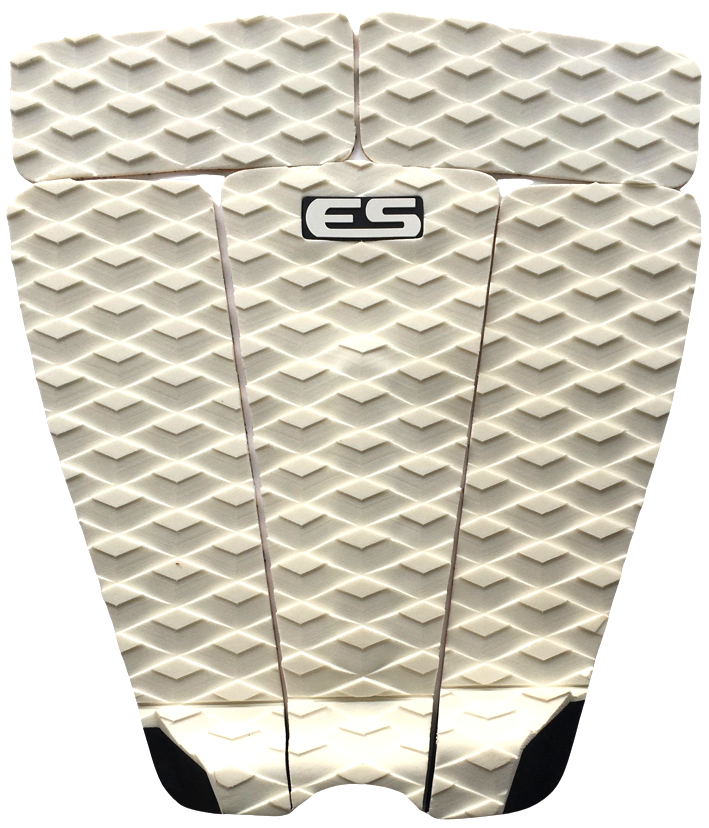
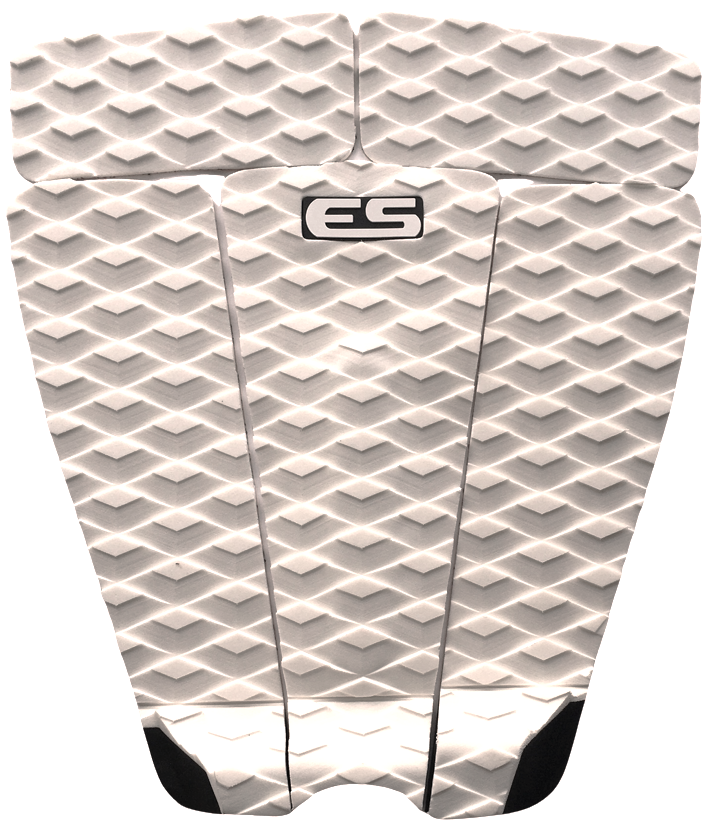
new collection updated

diff --git a/src/Components/Assets/new_collections.js b/src/Components/Assets/new_collections.js
@@ -1,65 +1,65 @@
-import p1_img from './product_12.png';
-import p2_img from './product_27.png';
-import p3_img from './product_14.png';
-import p4_img from './product_28.png';
-import p5_img from './product_15.png';
-import p6_img from './product_9.png';
-import p7_img from './product_7.png';
-import p8_img from './product_39.png';
+import p1_img from './product_37.png';
+import p2_img from './product_10.png';
+import p3_img from './product_40.png';
+import p4_img from './product_39.png';
+import p5_img from './product_38.png';
+import p6_img from './product_42.png';
+import p7_img from './product_41.png';
+import p8_img from './product_31.png';
 
 let new_collections = [
   {
-    id: 12,
-    name: 'Deck Fiji - White / Pink',
+    id: 37,
+    name: 'Deck Fiji - White / Black',
     image: p1_img,
     new_price: 25.0,
-    old_price: 42.5,
+    old_price: 42.0,
   },
   {
-    id: 27,
-    name: 'Deck Hawaii - Black/Red',
+    id: 10,
+    name: 'Deck J-Bay - White / Black',
     image: p2_img,
     new_price: 25.0,
     old_price: 42.5,
   },
   {
-    id: 14,
-    name: 'Deck Fiji - Black/Gray',
+    id: 40,
+    name: 'Deck Fiji - White / Pink',
     image: p3_img,
-    new_price: 25.0,
-    old_price: 42.5,
-  },
-  {
-    id: 28,
-    name: 'Deck Hawaii - Black/Blue',
-    image: p4_img,
-    new_price: 25.0,
-    old_price: 42.5,
-  },
-  {
-    id: 15,
-    name: 'Deck Fiji - Black/Green',
-    image: p5_img,
-    new_price: 25.0,
-    old_price: 42.5,
-  },
-  {
-    id: 9,
-    name: 'Deck J-Bay Blue',
-    image: p6_img,
-    new_price: 25.0,
-    old_price: 42.5,
-  },
-  {
-    id: 7,
-    name: 'Deck J-Bay Black/White',
-    image: p7_img,
     new_price: 25.0,
     old_price: 42.5,
   },
   {
     id: 39,
     name: 'Deck Fiji - White / Blue',
+    image: p4_img,
+    new_price: 25.0,
+    old_price: 42.5,
+  },
+  {
+    id: 38,
+    name: 'Deck Fiji - White / Orange',
+    image: p5_img,
+    new_price: 25.0,
+    old_price: 42.5,
+  },
+  {
+    id: 42,
+    name: 'Deck Fiji - White / Gray',
+    image: p6_img,
+    new_price: 25.0,
+    old_price: 42.5,
+  },
+  {
+    id: 41,
+    name: 'Deck Fiji White / Green',
+    image: p7_img,
+    new_price: 25.0,
+    old_price: 42.5,
+  },
+  {
+    id: 31,
+    name: 'Deck Hawaii - White / Black',
     image: p8_img,
     new_price: 25.0,
     old_price: 42.5,

diff --git a/src/Components/NewCollections/NewCollections.jsx b/src/Components/NewCollections/NewCollections.jsx
@@ -6,7 +6,7 @@ import Item from '../Item/Item';
 const NewCollections = () => {
   return (
     <div className='new-collections'>
-      <h1>NEW COLLECTIONS</h1>
+      <h1>WHITE COLLECTION</h1>
       <hr />
       <div className='collections'>
         {new_collection.map((item, i) => {
